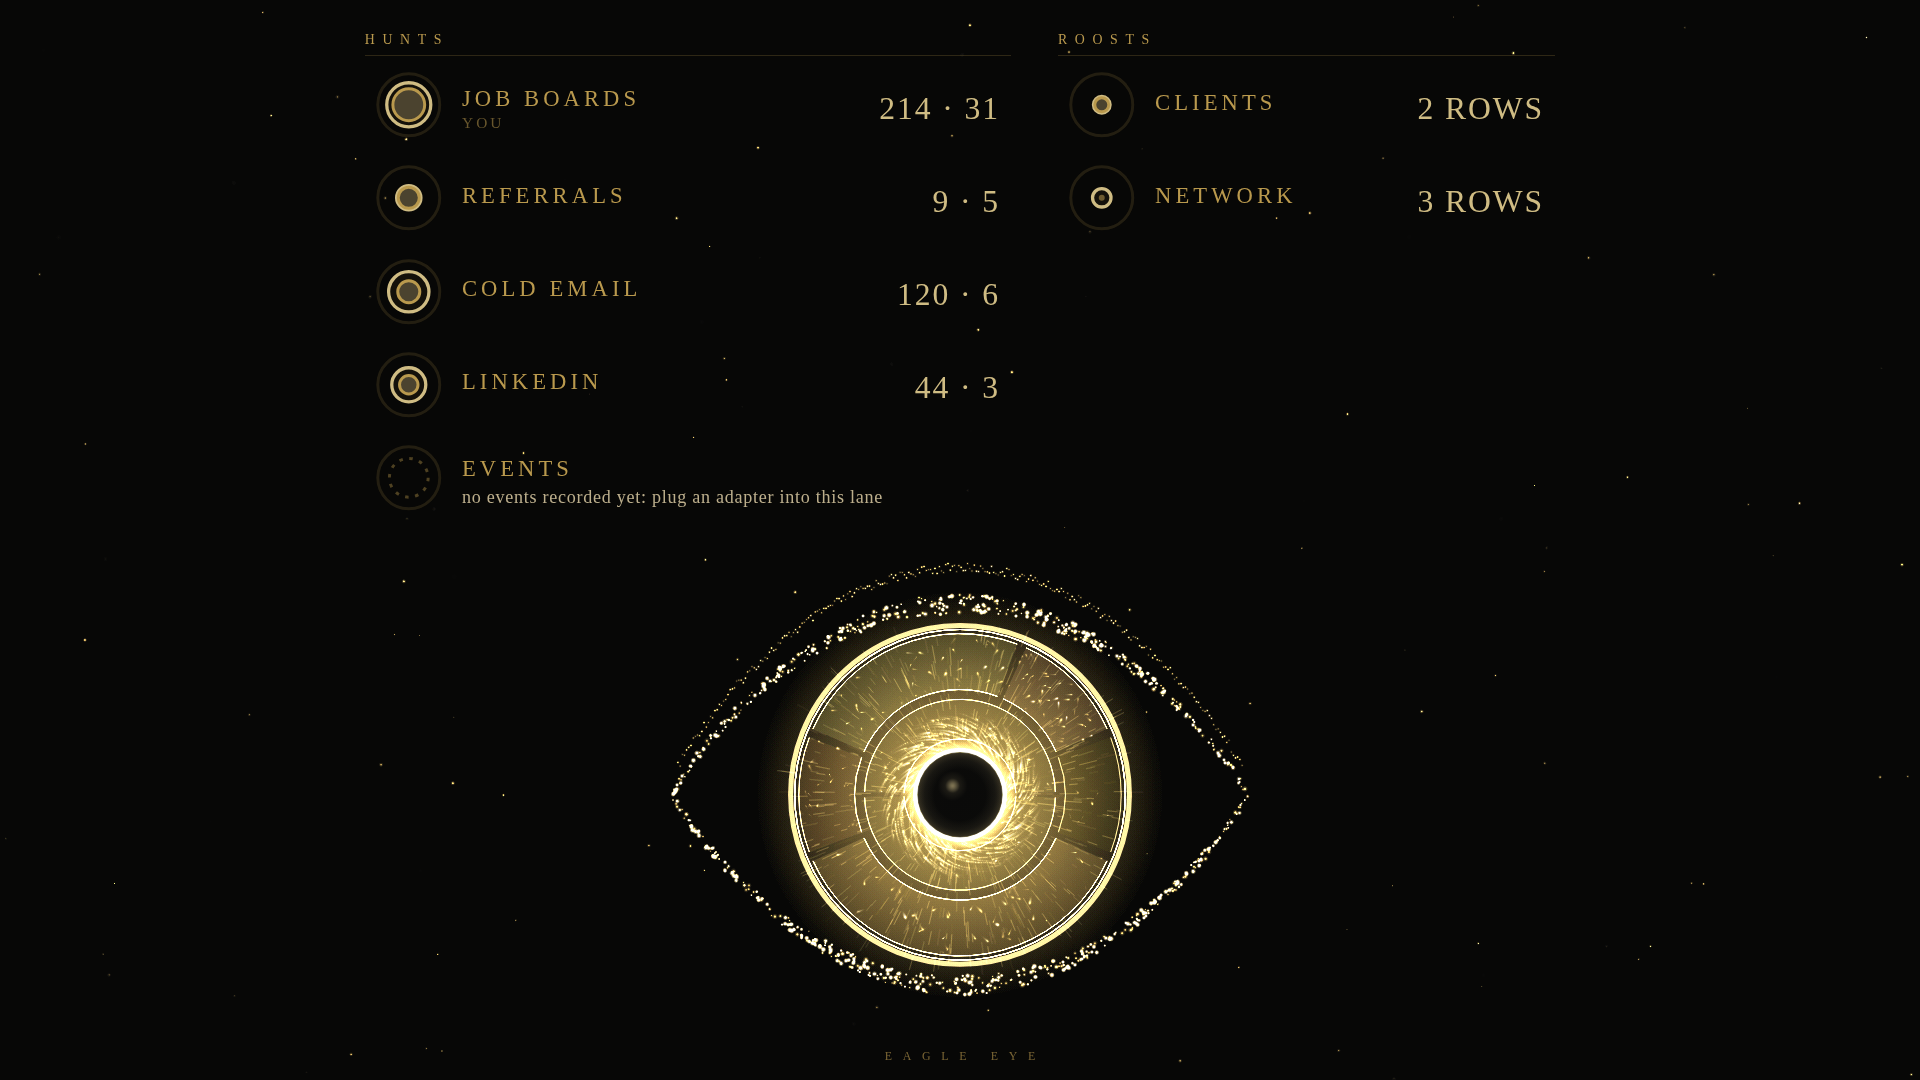
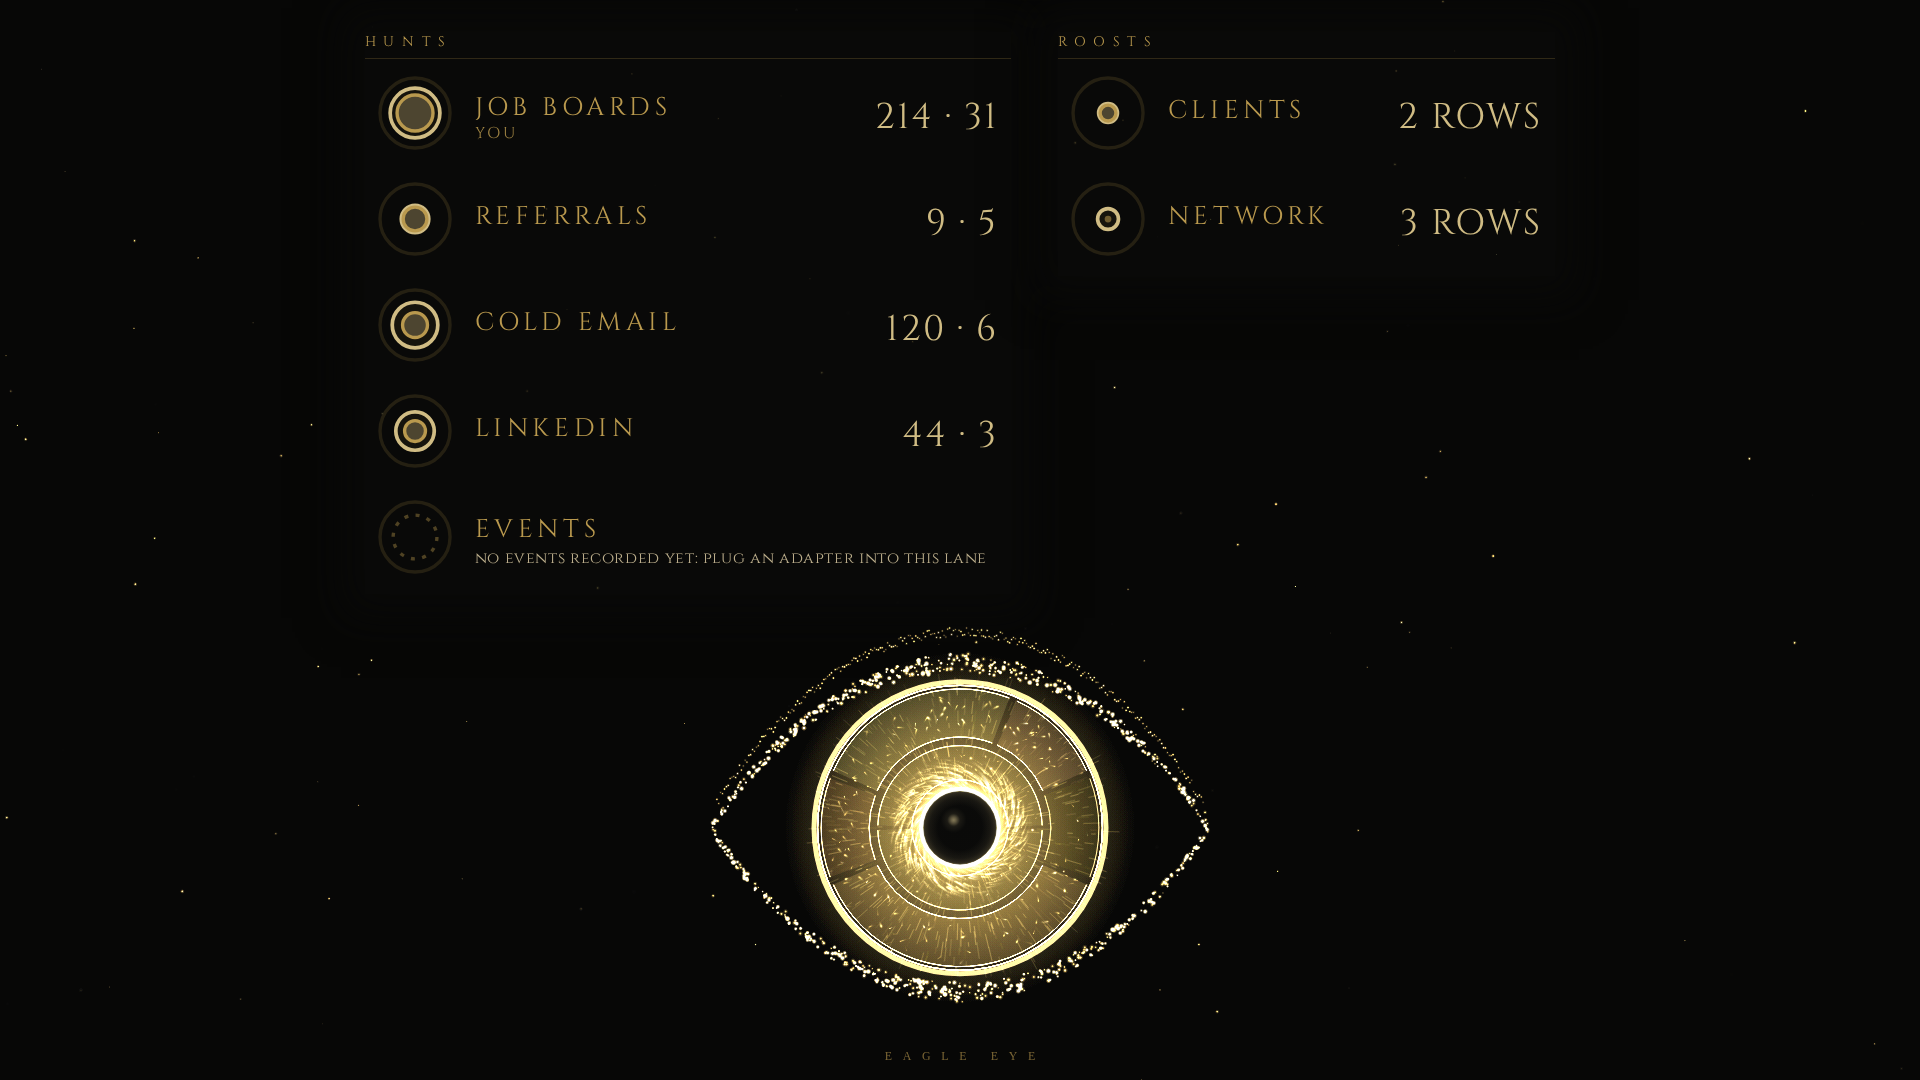
Bigger lanes, portrait stacking, one font in every browser

diff --git a/eagle-eye.js b/eagle-eye.js
@@ -32,6 +32,7 @@ const KEY4 = [['proposals_sent','sent'],['proposals_answered','answered'],['cont
 if(CFG.stages) STAGES.splice(0, STAGES.length, ...CFG.stages);
 if(CFG.key4) KEY4.splice(0, KEY4.length, ...CFG.key4);
 
+if(!document.querySelector('link[data-cinzel]')){ const fl=document.createElement('link'); fl.rel='stylesheet'; fl.dataset.cinzel=1; fl.href='https://fonts.googleapis.com/css2?family=Cinzel:wght@400;500&display=block'; document.head.appendChild(fl); }
 const style = document.createElement('style');
 style.textContent = `
 :root{--bg:#0a0a09;--gold:#d9b35b;--pale:#f3dc9a}
@@ -165,6 +166,14 @@ style.textContent = `
 #e2.top #gl .grp{flex:1.3 1 0;min-width:0}
 #e2.top #gl #grp1{flex-grow:1}
 #e2 #lv,#e2 #gr{display:none!important}
+#e2.top.stack #gl{flex-direction:column;gap:var(--u)}
+#e2.top #gl .grp{background:rgba(10,10,9,.82);box-shadow:0 0 40px 24px rgba(10,10,9,.82)}
+#e2.top .gly i.ag{opacity:.85;font-size:max(.62em,11px)}
+#e2.top .gly small.why{-webkit-line-clamp:2!important;font-size:max(.62em,11px)!important;opacity:.8}
+#e2.top.narrow .gly small.why{-webkit-line-clamp:3!important}
+#e2.top.narrow .gly .gt{grid-template-columns:1fr auto}
+#e2.top.narrow .gly small.num{grid-column:2;grid-row:1 / span 2;align-self:center}
+#e2 #mark{white-space:nowrap}
 #e2 a.gly{color:inherit;text-decoration:none}
 #e2 a.gly:focus-visible{outline:1px solid var(--gold);outline-offset:2px}
 #e2 .nums i{font-size:max(.66em,10px)}
@@ -277,20 +286,23 @@ function resize(){
   const u = Math.max(11, Math.min(W,H)/74);
   root.style.setProperty('--u', u+'px');
   const narrow = W < 700;
-  root.className = 'top rows'+(narrow?' narrow':'');
-  let gf = narrow ? 1.05 : Math.min(W>2400?2.1:1.75, Math.max(1.1, Math.min(W/(66*u), H/(46*u))));
+  const stack = narrow || W/H < 1.05;
+  root.className = 'top rows'+(narrow?' narrow':'')+(stack?' stack':'');
+  let gf = narrow ? 1.5 : (W>2400 ? 2.9 : 2.5);
   const setGf = ()=>root.style.setProperty('--gf', gf+'em');
-  const gp = (narrow?1:2.4)*u, lw = Math.min(W-2*gp, Math.max(60*u, 0.62*W), 150*u);
+  const gp = (narrow?1:2.4)*u, lw = stack ? Math.min(W-2*gp, 70*u) : Math.min(W-2*gp, Math.max(60*u, 0.62*W), 150*u);
   root.style.setProperty('--gg', (narrow?1:3.2)*u+'px'); root.style.setProperty('--lw', lw+'px'); root.style.setProperty('--gx', ((W-lw)/2)+'px');
   if(grpH.parentNode!==glA || grpR.parentNode!==glA){ glA.appendChild(grpH); glA.appendChild(grpR); }
-  const pt = (narrow?1.2:2.2)*u, markH = 3.2*u, minR = Math.max(44, Math.min(H*.15, W*.12));
-  for(let k=0;k<14;k++){ setGf(); root.style.setProperty('--pt', pt+'px');
-    const hh = Math.max(grpH.offsetHeight, grpR.offsetHeight), top = pt + hh + (narrow?1.2:2)*u;
+  const pt = (narrow?1.2:2.2)*u, markH = 3.2*u, minR = Math.max(40, Math.min(H*.13, W*.11));
+  const fits = ()=>[...glA.querySelectorAll('.gt')].every(e=>e.scrollWidth<=e.clientWidth+1);
+  for(let k=0;k<40;k++){ setGf(); root.style.setProperty('--pt', pt+'px');
+    const hh = stack ? grpH.offsetHeight + grpR.offsetHeight + u : Math.max(grpH.offsetHeight, grpR.offsetHeight), top = pt + hh + (narrow?1.2:2)*u;
     const avail = H - top - markH;
     R = Math.min(avail/2.9, W*.2); lidW = Math.min(W*.44, R*1.75, (W-2*gp)/2 - 8); R = Math.min(R, lidW/1.5);
     cy = top + avail/2;
-    if(R >= minR || gf <= .8) break;
-    gf -= .06; }
+    if((R >= minR && hh <= H*.6 && fits()) || gf <= .8) break;
+    gf -= .05; }
+  R = Math.max(R, 20); lidW = Math.max(lidW, 30);
   root.style.setProperty('--u', u+'px');
   root.style.setProperty('--ex', lidW+'px');
   root.style.setProperty('--ey', (R*1.44)+'px');
